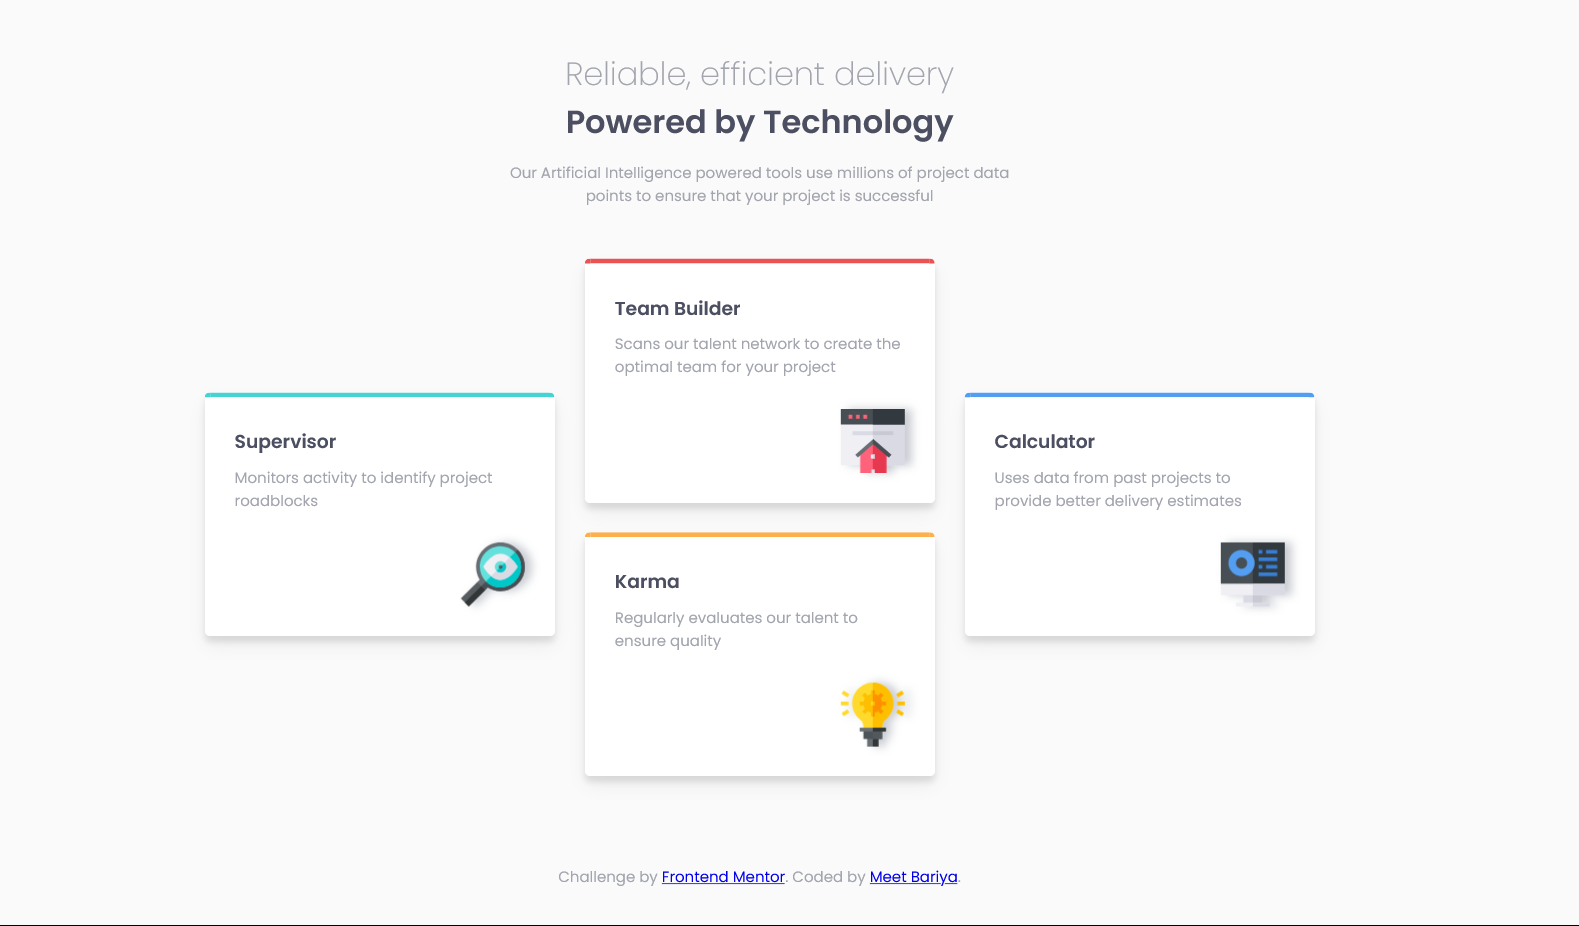
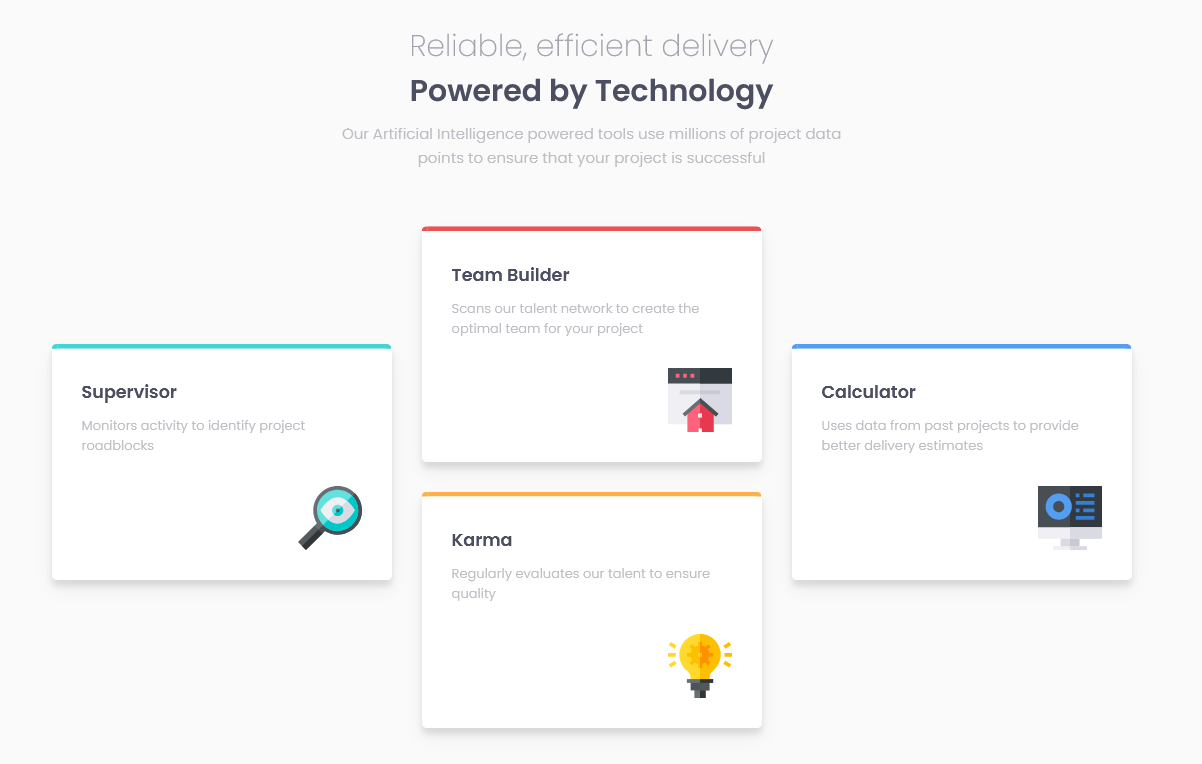
project index page added

diff --git a/index.html b/index.html
@@ -1,0 +1,41 @@
+<!DOCTYPE html>
+<html lang="en">
+<head>
+     <meta charset="UTF-8">
+     <meta http-equiv="X-UA-Compatible" content="IE=edge">
+     <meta name="viewport" content="width=device-width, initial-scale=1.0">
+     <link rel="stylesheet" href="./stye.css">
+     <title>Frontend Mentor Challenges</title>
+</head>
+<body>
+     <header>
+          <h1> Frontend Mentor Challenges </h1>
+     </header>
+     <div class="container">
+          <div class="box">
+               <img src="./four-card-feature-section/design/Screenshot.png" alt="four-card-feature-section">
+               <h2>1. Four card feature section</h2>
+               <div class="source-links">
+                    <a href="https://github.com/meet-bariya/frontend-mentor-challenges/tree/main/four-card-feature-section">Github</a>
+                    <a href="./four-card-feature-section/">Live</a>
+               </div>
+          </div>
+          <div class="box">
+               <img src="./signup-form/design/desktop-design.jpg" alt="signup-form">
+               <h2>2. Signup Form</h2>
+               <div class="source-links">
+                    <a href="https://github.com/meet-bariya/frontend-mentor-challenges/tree/main/signup-form">Github</a>
+                    <a href="./signup-form/">Live</a>
+               </div>
+          </div>
+          <div class="box">
+               <img src="./signup-form/design/desktop-design.jpg" alt="signup-form">
+               <h2>3. Signup Form</h2>
+               <div class="source-links">
+                    <a href="https://github.com/meet-bariya/frontend-mentor-challenges/tree/main/signup-form">Github</a>
+                    <a href="./signup-form/">Live</a>
+               </div>
+          </div>
+     </div>
+</body>
+</html>

diff --git a/stye.css b/stye.css
@@ -1,0 +1,61 @@
+@import url('https://fonts.googleapis.com/css2?family=Poppins:wght@200;400;500;600&display=swap');
+
+*{
+     padding: 0;
+     margin: 0;
+     box-sizing: border-box;
+}
+
+body{
+     font-size: 16px;
+     background-color: #fff;
+     font-family: 'Poppins', sans-serif;
+     
+}
+
+header{
+     margin: 50px;
+     text-align: center;
+     color:rgb(37, 89, 126);
+}
+
+header h1{
+     font-weight: 500;
+}
+
+.container{
+     display: flex;
+     flex-wrap: wrap;
+     justify-content: center;
+}
+
+.box{
+     width: 300px;
+     margin: 20px;
+     box-shadow: 0 10px 20px rgba(0, 0, 5, 0.08), 0 5px 6px rgba(0, 0, 0, 0.2) ;
+     border-radius: 3px;
+     background-color: #fff;
+}
+
+.box img{
+     width: 100%;
+     border-radius: 0px 0px 0 0;
+     height: 200px;
+}
+
+.box h2{
+     font-size: 18px;
+     font-weight: 400;
+     margin: 10px 20px;
+}
+
+a{
+     margin-left: 70px;
+     text-decoration: none;
+     color: rgba(0, 150, 255);
+}
+
+.source-links{
+     display: inline-block;
+     margin: 15px 0 25px 0;
+}

diff --git a/four-card-feature-section/index.html b/four-card-feature-section/index.html
@@ -3,9 +3,7 @@
 <head>
   <meta charset="UTF-8">
   <meta name="viewport" content="width=device-width, initial-scale=1.0"> <!-- displays site properly based on user's device -->
-
   <link rel="icon" type="image/png" sizes="32x32" href="./images/favicon-32x32.png">
-  
   <title>Frontend Mentor | Four card feature section</title>
   <link rel="stylesheet" href="./style.css">
 </head>
@@ -38,11 +36,5 @@
       <img src="./images/icon-karma.svg" alt="Karma"/>
     </div>
 </div>
-  <footer>
-    <p class="attribution">
-      Challenge by <a href="https://www.frontendmentor.io?ref=challenge" target="_blank">Frontend Mentor</a>. 
-      Coded by <a href="#">Meet Bariya</a>.
-    </p>
-  </footer>
 </body>
 </html>

diff --git a/four-card-feature-section/style.css b/four-card-feature-section/style.css
@@ -87,10 +87,6 @@ h1 span{
     transform: translateY(-55%);
 }
 
-footer{
-    margin: -60px;
-    text-align: center;
-}
 
 @media (max-width: 770px) {
 
@@ -99,12 +95,5 @@ footer{
     }
     .box-push{
         transform: translateY(0);
-    }
-}
-
-@media (max-width: 1140px) {
-
-    footer{
-        margin: 40px;
     }
 }
